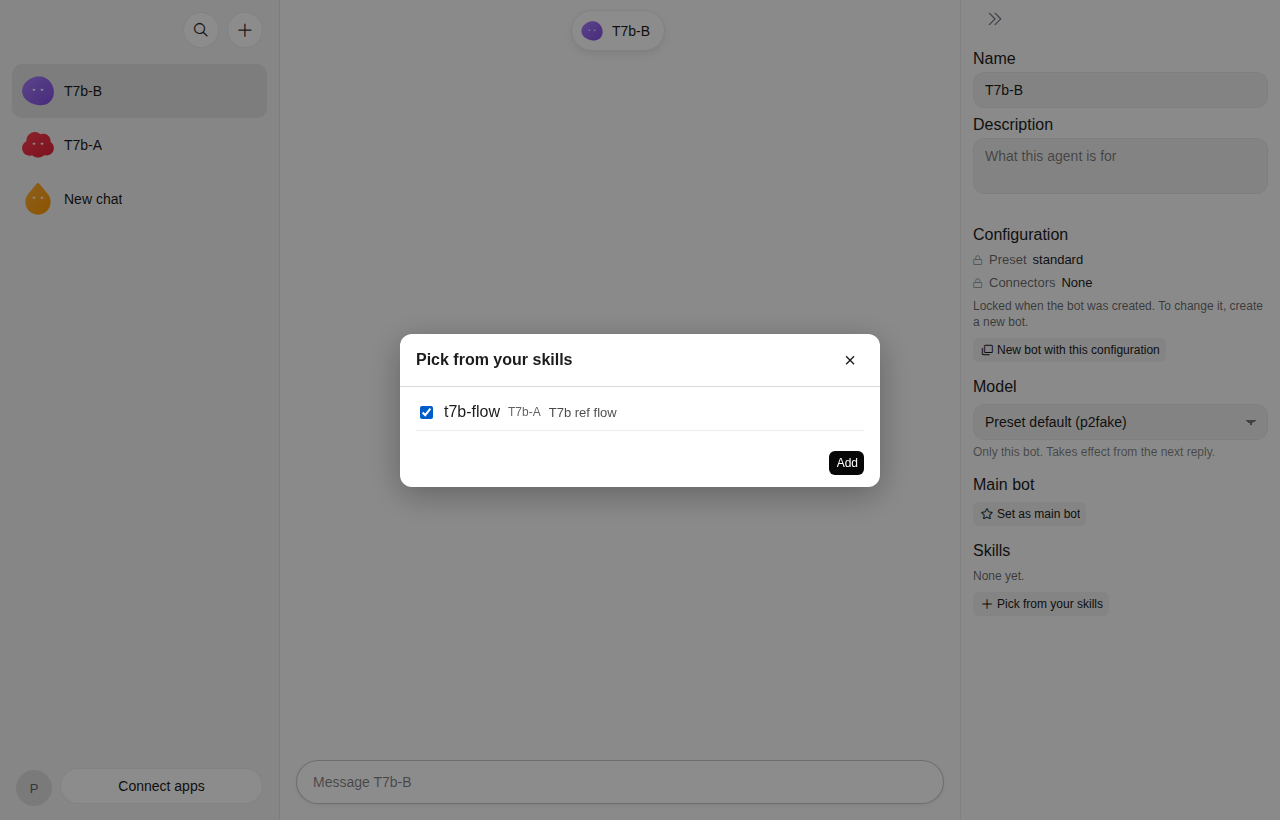
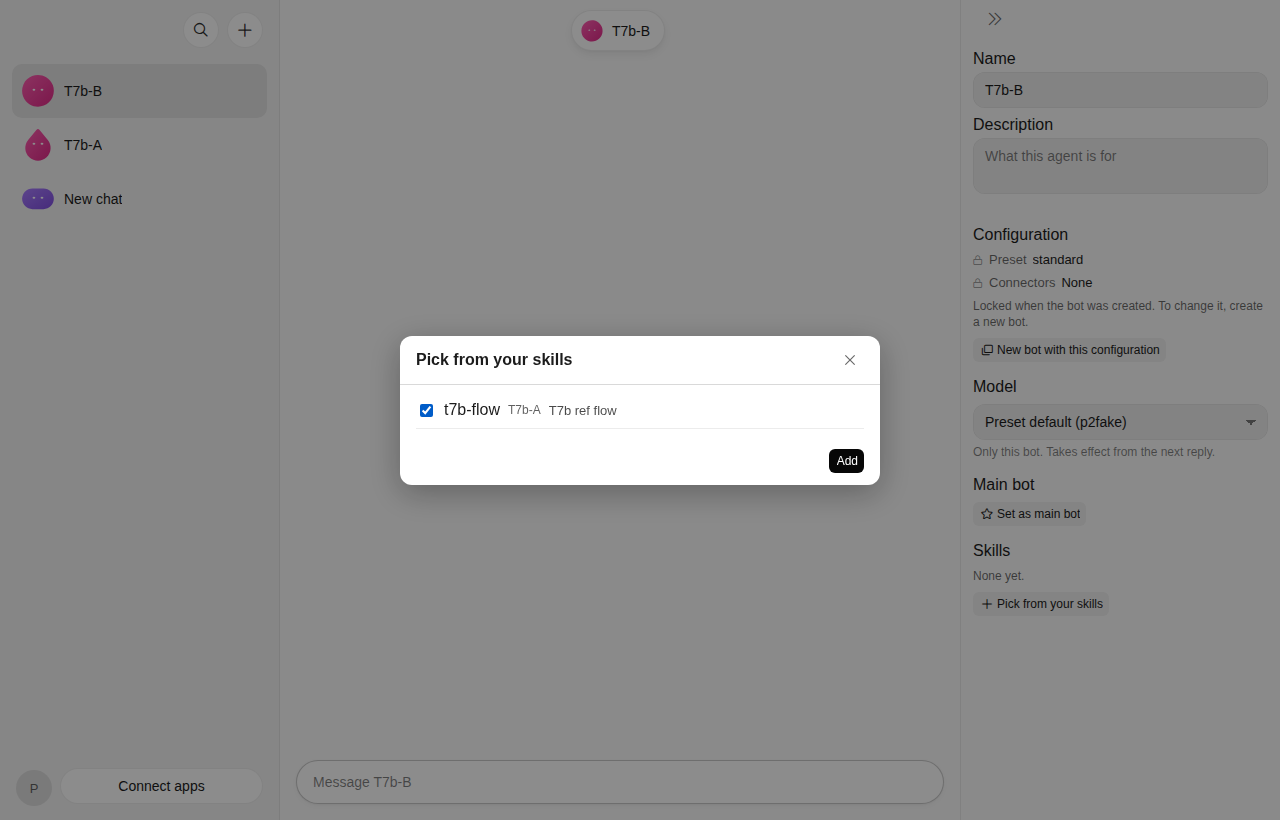
fix(ui): T7bd 视觉收口——内联挪 CSS/暗色 Add var 化/删 pick !important/裸 shell spec 修 T26b 回归
- skills-dialog.tsx 内联 style（--sand-bg-elevated,#fff 兜底）挪 t7b.css .pb-skills-dialog>div
- t7b.css 暗色 Add #121212→var(--sand-text-inverted)；删 [data-action=skills-pick] color:inherit !important
  （删除断言仍绿，工单字面判据）
- t7b-shot.spec：删死 shot 函数/void shot/未用导入；skills-picker+t7b-shot 裸 launchShell
  改 waitProductReady（T26b 后首启进 onboarding、agent 恒 0——T26b 合并回归，边界外最小修）
- 四张截图归档 ref/（HEAD 构建重出）

diff --git a/app/ui/tests/e2e/skills-picker.spec.ts b/app/ui/tests/e2e/skills-picker.spec.ts
@@ -5,7 +5,7 @@ import { join } from 'node:path'
 import { expect, test } from 'playwright/test'
 import { fakeOverlayPath, launchSdkRuntime } from '../support/sdk-runtime.ts'
 import { launchShell, sandboxHome } from '../support/launch.ts'
-import { createBots, PRESETS_PATCH } from '../support/ui.ts'
+import { createBots, PRESETS_PATCH, waitProductReady } from '../support/ui.ts'
 
 test('Skills 段：Added 空 → Pick 勾选 Add → 磁盘副本字节等于源 → 移除双清', { timeout: 300_000 }, async ({ page }) => {
   const home = sandboxHome('T7b')
@@ -15,9 +15,7 @@ test('Skills 段：Added 空 → Pick 勾选 Add → 磁盘副本字节等于源
   try {
     shell = await launchShell({ env: { PBOTS_DSH_HANDOFF: rt.handoff }, home })
     const ui = shell.page
-    await expect(ui.locator('.sand-agent-item')).toHaveCount(1, { timeout: 60_000 })
-    await expect(ui.locator('.ProseMirror[contenteditable="true"]')).toBeVisible({ timeout: 20_000 })
-    await expect(ui.locator('.sand-agent-item [data-grok-state]').first()).toHaveAttribute('data-grok-state', 'idle', { timeout: 30_000 })
+    await waitProductReady(ui) // T7bd：T26b 后裸 launchShell 首启进 onboarding、agent 恒 0——用兜底（置 seen+reloadRoster）
 
     const [idA, idB] = await createBots(ui, [{ title: 'T7b-A' }, { title: 'T7b-B' }])
     const wsA = join(dataDir, 'workspaces', idA)
@@ -70,9 +68,7 @@ test('250 上限：Add 显示可读提示、磁盘无新增', { timeout: 300_000
   try {
     shell = await launchShell({ env: { PBOTS_DSH_HANDOFF: rt.handoff }, home })
     const ui = shell.page
-    await expect(ui.locator('.sand-agent-item')).toHaveCount(1, { timeout: 60_000 })
-    await expect(ui.locator('.ProseMirror[contenteditable="true"]')).toBeVisible({ timeout: 20_000 })
-    await expect(ui.locator('.sand-agent-item [data-grok-state]').first()).toHaveAttribute('data-grok-state', 'idle', { timeout: 30_000 })
+    await waitProductReady(ui) // T7bd：T26b 后裸 launchShell 首启进 onboarding、agent 恒 0——用兜底（置 seen+reloadRoster）
 
     const [idA, idB] = await createBots(ui, [{ title: 'T7b-A2' }, { title: 'T7b-B2' }])
     const wsA = join(dataDir, 'workspaces', idA)

diff --git a/app/ui/tests/e2e/t7b-shot.spec.ts b/app/ui/tests/e2e/t7b-shot.spec.ts
@@ -1,16 +1,9 @@
-import { mkdirSync, readFileSync, writeFileSync, existsSync, rmSync } from 'node:fs'
+import { mkdirSync, writeFileSync, rmSync } from 'node:fs'
 import { join } from 'node:path'
 import { expect, test } from 'playwright/test'
 import { fakeOverlayPath, launchSdkRuntime } from '../support/sdk-runtime.ts'
 import { launchShell, sandboxHome } from '../support/launch.ts'
-import { createBots, PRESETS_PATCH } from '../support/ui.ts'
-
-const shot = async (page: import('playwright/test').Page, theme: 'light' | 'dark', state: 'added' | 'pick', pane: import('playwright/test').Locator): Promise<void> => {
-  await page.emulateMedia({ colorScheme: theme })
-  await page.waitForTimeout(300)
-  await page.screenshot({ path: `test-output/T7b/skills-${state}.${theme}.png` })
-  void pane
-}
+import { createBots, PRESETS_PATCH, waitProductReady } from '../support/ui.ts'
 
 test('截图四张', { timeout: 300_000 }, async ({ page }) => {
   const home = sandboxHome('T7bS')
@@ -20,9 +13,7 @@ test('截图四张', { timeout: 300_000 }, async ({ page }) => {
   try {
     shell = await launchShell({ env: { PBOTS_DSH_HANDOFF: rt.handoff }, home })
     const ui = shell.page
-    await expect(ui.locator('.sand-agent-item')).toHaveCount(1, { timeout: 60_000 })
-    await expect(ui.locator('.ProseMirror[contenteditable="true"]')).toBeVisible({ timeout: 20_000 })
-    await expect(ui.locator('.sand-agent-item [data-grok-state]').first()).toHaveAttribute('data-grok-state', 'idle', { timeout: 30_000 })
+    await waitProductReady(ui) // T7bd：T26b 后裸 launchShell 首启进 onboarding、agent 恒 0——用兜底（置 seen+reloadRoster）
     const [idA, idB] = await createBots(ui, [{ title: 'T7b-A' }, { title: 'T7b-B' }])
     const wsA = join(dataDir, 'workspaces', idA)
     mkdirSync(join(wsA, '.dsh', 'skills', 't7b-flow'), { recursive: true })
@@ -70,4 +61,3 @@ test('截图四张', { timeout: 300_000 }, async ({ page }) => {
     rmSync(dataDir, { recursive: true, force: true })
   }
 })
-void shot

diff --git a/app/ui/renderer-grok/overrides/t7b.css b/app/ui/renderer-grok/overrides/t7b.css
@@ -4,7 +4,7 @@
   display: flex; flex-direction: column; align-items: center; justify-content: center;
   background: rgba(0,0,0,.45);
 }
-.pb-skills-dialog > div { max-width: 480px; width: 90%; }
+.pb-skills-dialog > div { max-width: 480px; width: 90%; background: var(--sand-bg-elevated); border-radius: 12px; box-shadow: 0 8px 32px rgba(0,0,0,.3); } /* T7bd：内联挪入；亮暗都有 --sand-bg-elevated，无 #fff 兜底 */
 .pb-skills-dialog__head {
   display: flex; align-items: center; justify-content: space-between;
   padding: 12px 16px; border-bottom: 1px solid rgba(128,128,128,.3);
@@ -23,11 +23,8 @@
 }
 .pb-skills-dialog__foot { padding: 12px 16px; text-align: right; }
 
-/* 暗色 Pick 按钮可读（P5-57 已知：--sand-text-on-primary 在暗色下=浅色底浅色字） */
-[data-action="skills-pick"] { color: inherit !important; }
-
 /* ponytail: 暗色 neutral primary 字色为色板原样问题（--sand-text-on-primary #f5f5f5 配浅底），
    全局修见 queue 提议。此处只修对话框内按钮。 */
 html[data-theme="cursor-dark"] .pb-skills-dialog [data-action="skills-add"] {
-  color: #121212 !important;
+  color: var(--sand-text-inverted) !important; /* T7bd：#121212→var（暗色= #121212，T7bc 原指定） */
 }

diff --git a/app/ui/renderer-grok/overrides/modules/skills-dialog.tsx b/app/ui/renderer-grok/overrides/modules/skills-dialog.tsx
@@ -42,7 +42,7 @@ export function SkillsDialog({ botId, onClose, onChanged }: { botId: string; onC
   }
   return (
     <div className="pb-skills-dialog" role="dialog" aria-label="Pick from your skills" data-skills-dialog onClick={onClose}>
-      <div onClick={(e) => e.stopPropagation()} style={{ background: 'var(--sand-bg-elevated, #fff)', borderRadius: 12, boxShadow: '0 8px 32px rgba(0,0,0,.3)' }}>
+      <div onClick={(e) => e.stopPropagation()}>
       <div className="pb-skills-dialog__head">
         <span className="pb-skills-dialog__title">Pick from your skills</span>
         <SandIconButton aria-label="Close" icon="close" onClick={onClose} shape="circle" size="md" variant="ghost" />
